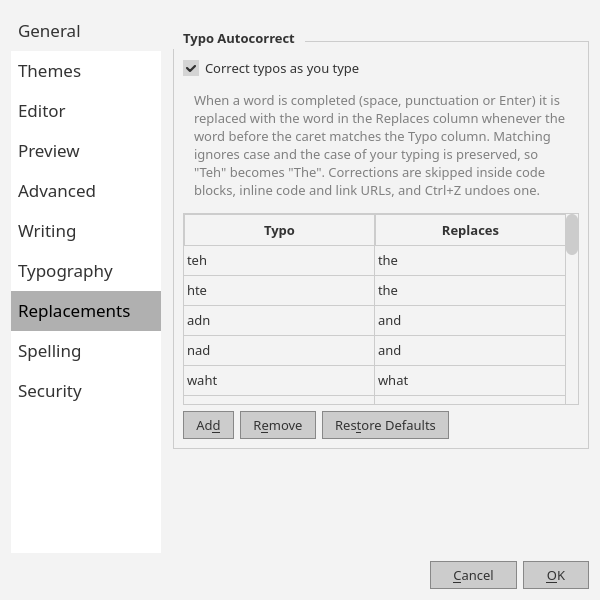
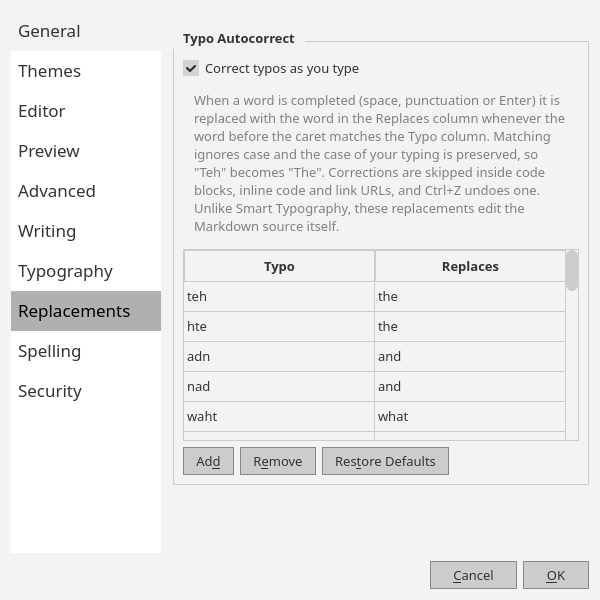
fix: updated preferences/replacements to note it changes md source

Changed region(s): [[0.3, 0.33, 0.99, 0.81]]

diff --git a/src/PreferencesDialog.cpp b/src/PreferencesDialog.cpp
@@ -988,7 +988,7 @@ void PreferencesDialog::setupUi(const QString &themeBgColor, const QString &them
             "word in the Replaces column whenever the word before the caret matches the Typo "
             "column. Matching ignores case and the case of your typing is preserved, so \"Teh\" "
             "becomes \"The\". Corrections are skipped inside code blocks, inline code and link "
-            "URLs, and Ctrl+Z undoes one."));
+            "URLs, and Ctrl+Z undoes one. Unlike Smart Typography, these replacements edit the Markdown source itself."));
         note->setWordWrap(true);
         note->setStyleSheet("color: gray; padding: 8px;");
         groupLayout->addWidget(note);
